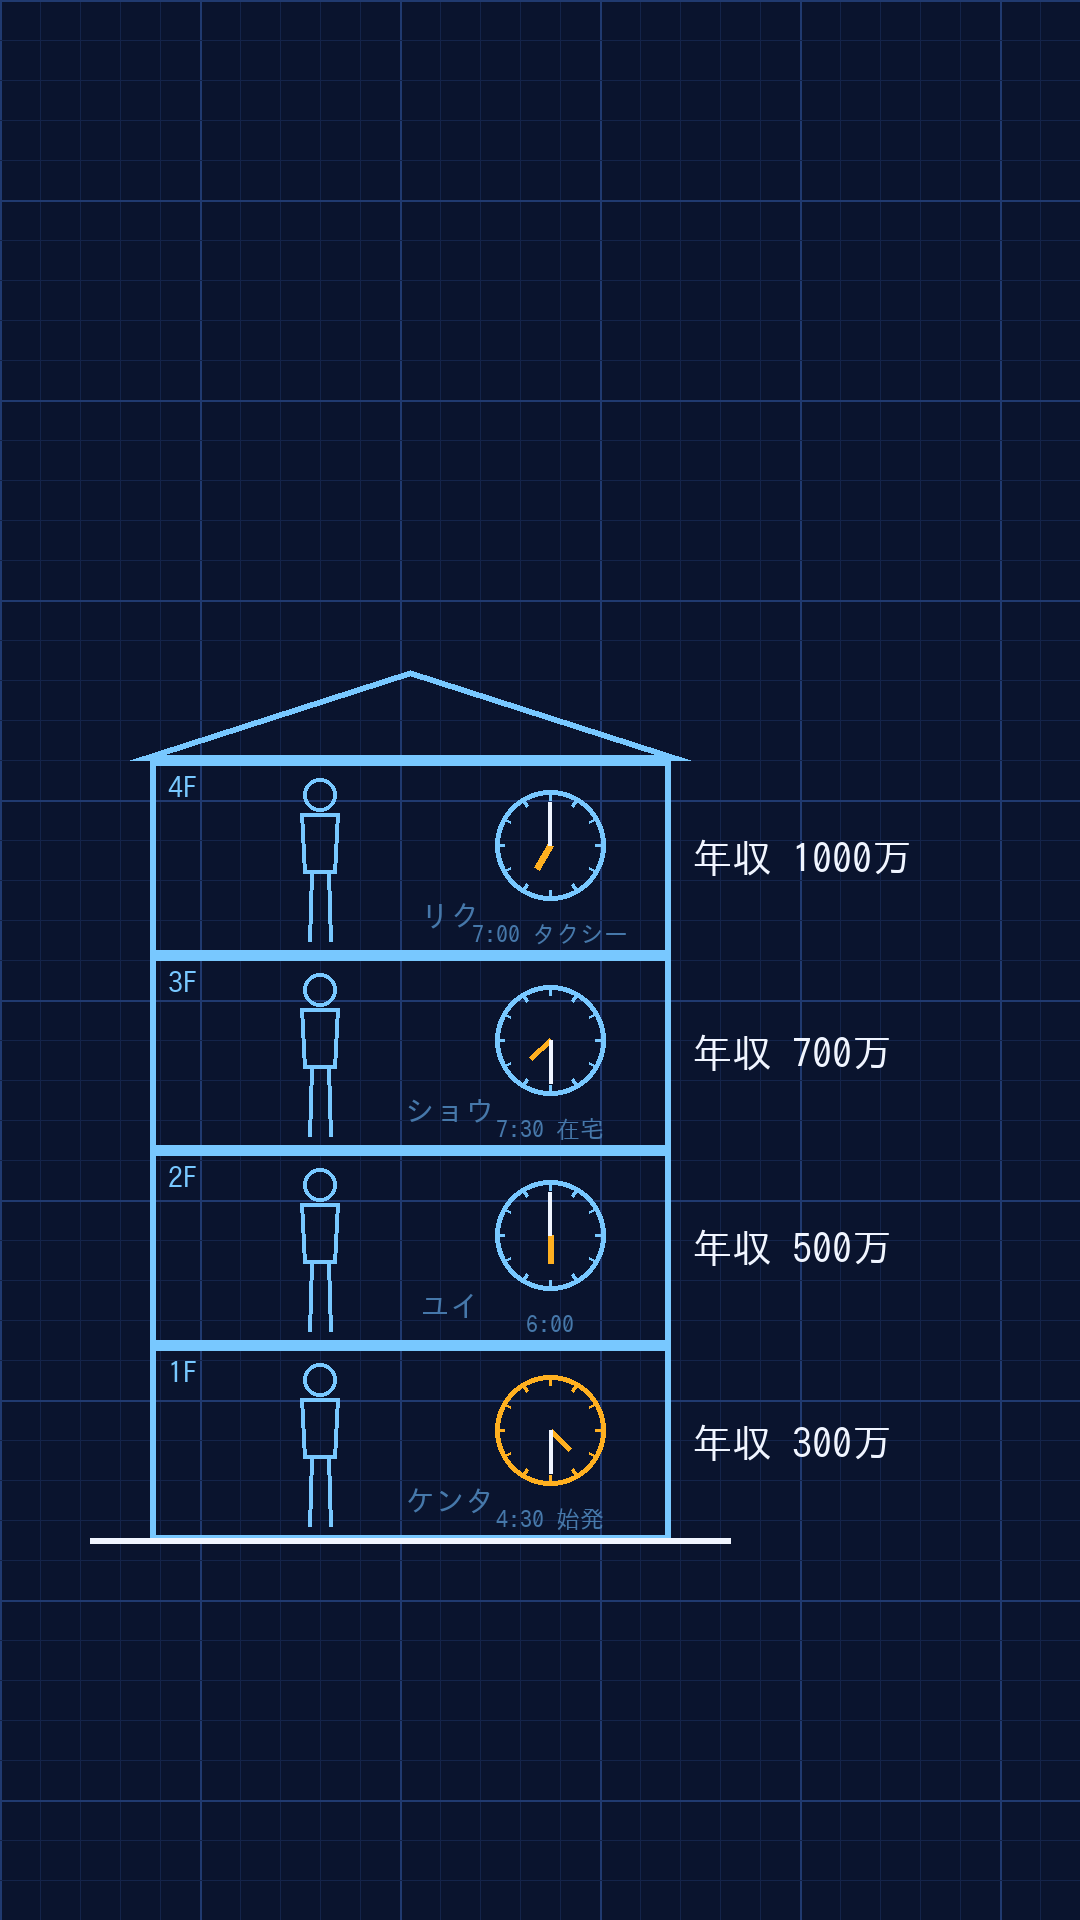
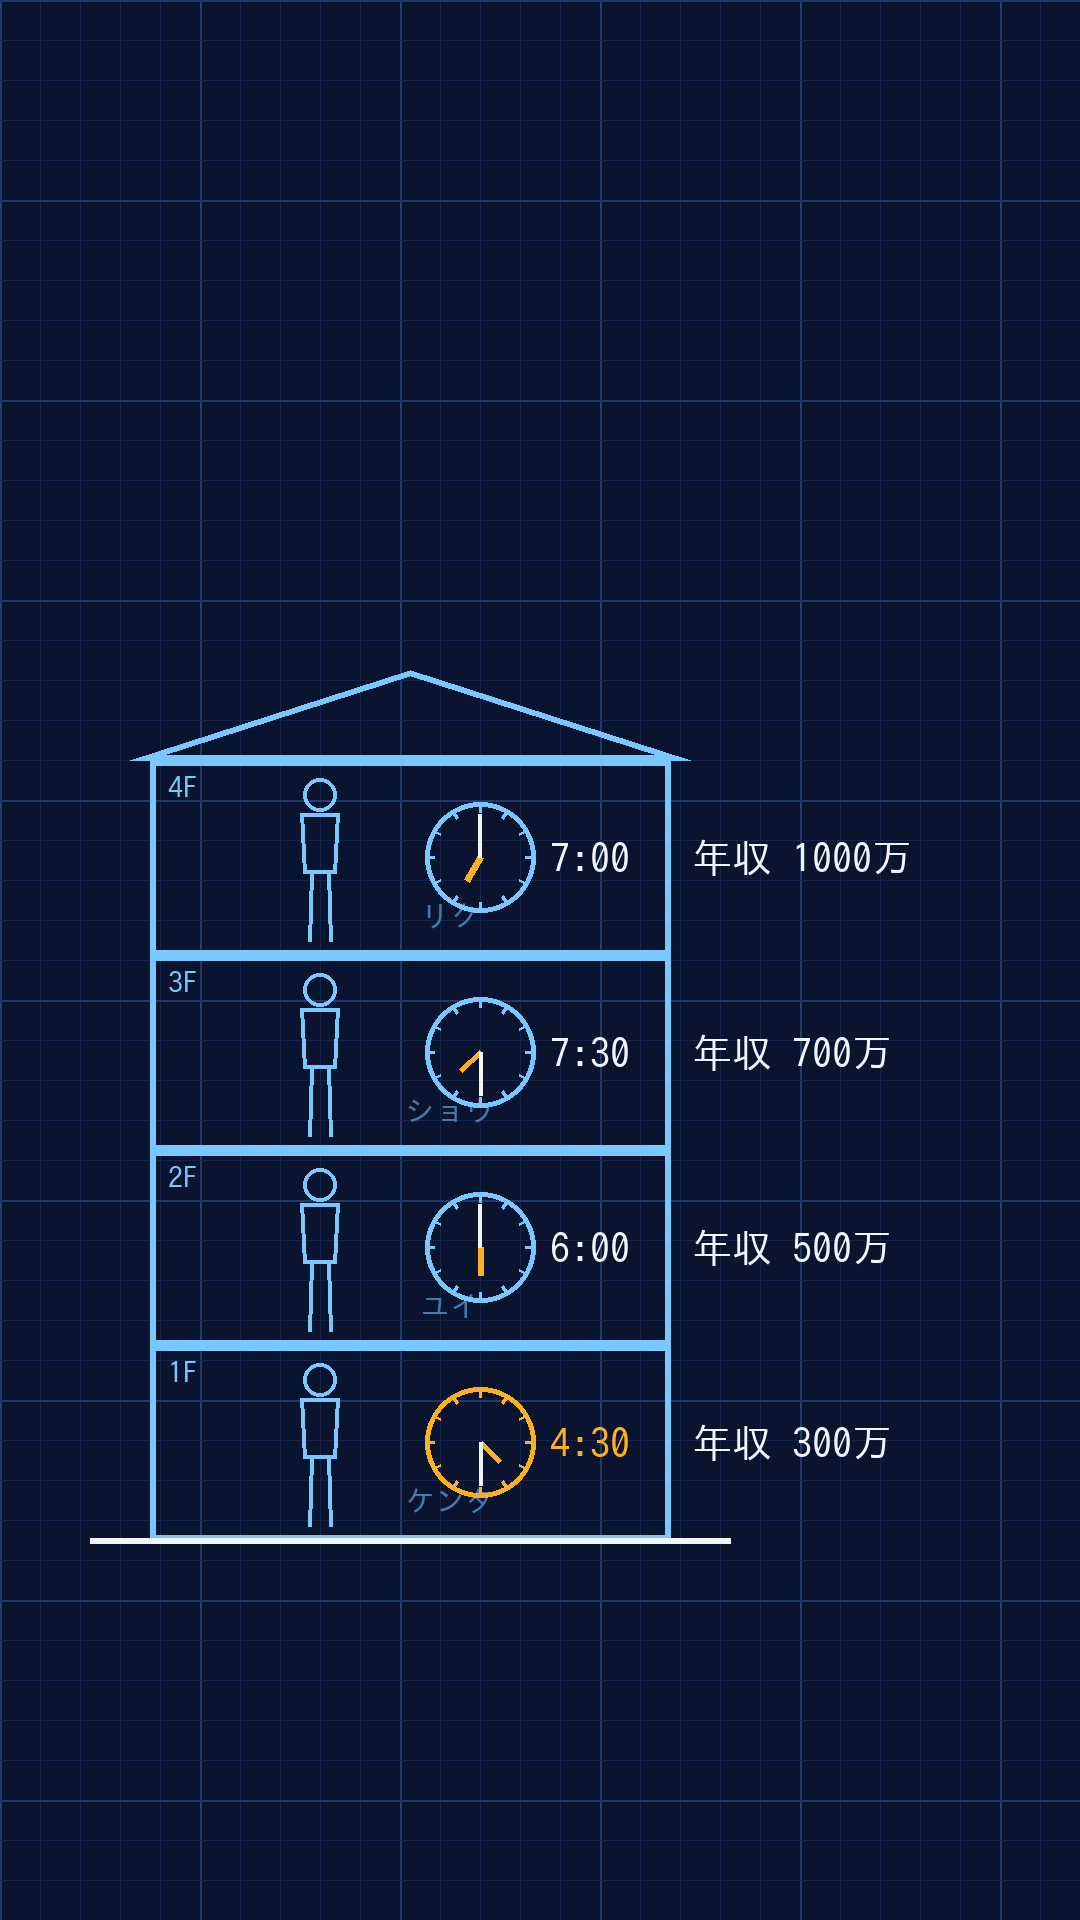
視聴者コメント「迷路の設計がよくわからん」を受けて：絵は説明なしで分かるルールをスキルに追加、未投稿の6〜9の図を修正
- SKILL.md 5章「絵は説明なしで分かること」、8章にコメントの扱い、references/視聴者の反応.md を新設
- 6：時計の時刻を40pxで時計の横に／8：棒グラフに軸名と結論を大きく／9：仲のいい友達と知り合いを左右で比べ、仕事の話が知り合いから届く図に
- 研究カードの見出しを40pxに

Claude-Session: https://claude.ai/code/session_013GWWgBpufckwWKyPRohvje

Changed region(s): [[0.3972, 0.4062, 0.5806, 0.8125]]

diff --git a/channel_produce/shorts/make_shorts_6to10.py b/channel_produce/shorts/make_shorts_6to10.py
@@ -70,8 +70,9 @@ def clocks_building(times):
         floors = building_scene(d, LABELS, NAMES, label_size=40)
         for i, (a, top, b, bot) in enumerate(floors):
             h, m, lab = times[i]
-            clock(d, a + 400, (top + bot) / 2 - 12, h, m, r=55, color=AMBER if i == 0 else LINE)
-            text(d, (a + 400, bot - 22), lab, 24, fill=LINE_DIM)
+            # 時刻は時計の右に40pxで（小さな注記に意味を持たせない）
+            clock(d, a + 330, (top + bot) / 2, h, m, r=55, color=AMBER if i == 0 else LINE)
+            text(d, (a + 400, (top + bot) / 2), lab.split()[0], 40, fill=AMBER if i == 0 else WHITE, anchor="lm")
         return im
     return make
 
@@ -91,7 +92,7 @@ def big_card(lines, amber=(), head=None):
 def research_card(title, draw):
     def make():
         im, d = canvas()
-        text(d, (540, 690), title, 34, fill=LINE_DIM)
+        text(d, (540, 690), title, 40, fill=LINE_DIM)
         draw(d)
         return im
     return make
@@ -495,8 +496,9 @@ def make_8():
 
     def s05(d):
         from blueprint import bar_chart
-        bar_chart(d, 260, 860, [70, 100], ["物を買う", "時間を買う"], h=420, bw=180, gap=180, colors=[LINE_DIM, AMBER], size=36)
-        text(d, (540, 1450), "生活の満足（高さはイメージ）", 32, fill=LINE_DIM)
+        text(d, (540, 800), "生活の満足", 52, fill=WHITE)
+        bar_chart(d, 230, 900, [70, 100], ["物を買う", "時間を買う"], h=440, bw=220, gap=180, colors=[LINE_DIM, AMBER], size=46)
+        text(d, (540, 1480), "時間を買う人ほど、満足が高い", 44, fill=AMBER)
 
     def s06():
         im, d = canvas()
@@ -526,13 +528,30 @@ def make_9():
             bubble(d, (400, 820 + k * 170, 880, 950 + k * 170), lab, 36, color=AMBER if k == 1 else LINE)
 
     def s05(d):
-        ties(d, 540, 1100, 5, 14)
-        text(d, (540, 1450), "点線＝ちょっとした知り合い", 36, fill=AMBER)
+        # 左：仲のいい友達（実線・少ない）、右：ちょっとした知り合い（点線・多い）。仕事の話は右から届く
+        import math
+        text(d, (540, 780), "仕事の話は、どこから来た？", 48, fill=WHITE)
+        for cx, n, dash, lab, col in [(280, 3, False, "仲のいい友達", LINE), (800, 9, True, "ちょっとした知り合い", AMBER)]:
+            person(d, cx, 1180, h=150, color=WHITE, width=4)
+            for k in range(n):
+                a = math.pi * (0.15 + 0.7 * k / max(1, n - 1)) + math.pi
+                x, y = cx + 190 * math.cos(a), 1060 + 190 * math.sin(a)
+                if dash:
+                    dashed(d, (cx, 1060), (x, y), color=col, width=4)
+                else:
+                    d.line([(cx, 1060), (x, y)], fill=col, width=6)
+                d.ellipse([x - 16, y - 16, x + 16, y + 16], fill=col)
+            text(d, (cx, 1260), lab, 42, fill=col)
+        # 知り合いの1人から「仕事の話」の封筒
+        d.rectangle([700, 1330, 900, 1450], outline=AMBER, width=5)
+        d.line([(700, 1330), (800, 1400), (900, 1330)], fill=AMBER, width=5)
+        text(d, (800, 1500), "仕事の話", 44, fill=AMBER)
 
     def s06():
         im, d = canvas()
         ties(d, 540, 940, 4, 22, label="リク：何百人", scale=0.8)
         ties(d, 540, 1380, 3, 3, far_on=False, label="ケンタ：数人", scale=0.6)
+        text(d, (540, 700), "点線＝ちょっとした知り合い", 44, fill=AMBER)
         return im
 
     write_folder("09_ちょっとした知り合い", S9, "ピロン", [

diff --git a/.claude/skills/jinsei-danmen/SKILL.md b/.claude/skills/jinsei-danmen/SKILL.md
@@ -101,6 +101,14 @@ description: ヒロキの新しいYouTubeチャンネル「人生の断面図」
 - 40〜50秒：救い→「あなたは何階でした？」→最後の絵を冒頭の絵と同じにしてループ
 - 長尺ができたら、ショートは**長尺の一番強い場面の切り出し**にする（新作は作らない）。長尺1本→ショート5本（各場面1本＋結末の手紙1本）。最後は「本編で、4人の20年をたどる。あなたは、何階でした？」で本編へ誘導し、投稿時に関連動画へ長尺を指定する。例：`channel_produce/shorts/make_shorts_6to10.py`
 
+**絵は説明なしで分かること**（2026-11-25 視聴者コメント「迷路の設計がよくわからん」👍3 より。ショート3 IQ）
+- たとえ（迷路・階段など）を使うなら、ナレーションかテロップで**1回はっきり言う**（例：「上の階ほど、迷路を上から広く見下ろせる」）
+- **同じもの**の見え方の差を見せるなら、最初に全体を1回見せ、各階は同じ絵の一部を隠す・明かすで描く（別々の絵に見えないように）
+- 迷路ならスタート・ゴール・本人の位置、グラフなら軸と単位など、**それが何かが分かる目印**を必ず入れる
+- 1本のたとえは1つ。ビルの階＋迷路のように2つを重ねない
+- 画面の文字は縦動画で最小40px（スマホで読めない小さな注記に意味を持たせない）
+- 確かめ方：音を消して各場面を1秒ずつ見て、何の絵か言えるか
+
 例：`references/ショート台本の例_年収.md`（自動配置ツールの script.md 形式。「テロップ：」「効果音：K01 +0.35」の指示付き）
 
 ## 6. タイトル・説明欄・サムネ
@@ -133,6 +141,7 @@ description: ヒロキの新しいYouTubeチャンネル「人生の断面図」
 - 24時間以上たってから見る：冒頭3秒の維持率、平均再生率（ループで100%超え）、コメント数、インプレッションのクリック率
 - 観測値（事実）と仮説を分けて書く。一度に変えるのは1つだけ
 - 当たりは全体の1〜3割が普通（どのチャンネルも同じ）。外れても型をすぐには捨てない
+- **コメントは貴重な実測**（ヒロキ 2026-11-25）。「分からない」系のコメントは、いいねの数も見て、次の台本・絵のルールに必ず反映する。記録は `references/視聴者の反応.md`
 
 ## 9. 制作の道具（リポジトリ `my-first-project` があるとき）
 
@@ -192,3 +201,4 @@ description: ヒロキの新しいYouTubeチャンネル「人生の断面図」
 | `references/ショート台本の例_年収.md` | ショートの script.md |
 | `references/タイトル_説明欄_サムネ.md` | ショート5本分のタイトル・説明欄・Midjourney と GPT Image の指示文 |
 | `references/使用済みの研究.md` | 元チャンネル・競合・自分のチャンネルで使った研究（重複を避ける） |
+| `references/視聴者の反応.md` | 投稿後のコメント・数字と、そこから直したルール |

diff --git a/.claude/skills/jinsei-danmen/references/視聴者の反応.md b/.claude/skills/jinsei-danmen/references/視聴者の反応.md
@@ -1,0 +1,23 @@
+# 視聴者の反応（コメント・数字）と、そこから直したこと
+
+新しいコメントや数字が来たら上に足す。観測（事実）と、そこから決めたルールを分けて書く。
+
+## 2026-11-25 ショート3「同じ迷路、4つの景色（IQ別）」
+
+**観測**
+- コメント「迷路の設計がよくわからん」（いいね3、投稿から約22時間）。チャンネルから「コメントありがとうございます。分かりやすくしますね！」と返信済み
+- 投稿時点の登録者2人。いいねが付いたので、同じように感じた人が複数いる
+
+**原因（動画を見直して分かったこと）**
+1. 各階の枠＝「その人に見えている迷路の範囲」だと、ナレーションでもテロップでも言っていない。説明はスマホでは読めない小さな注記「見えているのは、ここまで」だけ
+2. 1階は空の枠、2階は線2本…と、同じ迷路の一部ではなく別々の迷路に見える
+3. スタート・ゴール・本人の位置がなく、迷路だと分かる目印がない
+4. ビルの階と迷路の2つのたとえを重ねていて、関係が分かりにくい
+
+**決めたこと**（SKILL.md 5章「絵は説明なしで分かること」）
+- たとえは1本に1つ、1回は言葉ではっきり言う
+- 同じものの見え方の差は「全体を1回見せる→各階は同じ絵を隠す・明かす」
+- 何の絵か分かる目印（スタート・ゴール・自分の位置、軸と単位）を入れる
+- 文字は最小40px。音を消して1場面1秒で何の絵か言えるかで確かめる
+
+**同じ心配がある回**：ショート9（ちょっとした知り合い）の点線の図、ショート8の棒グラフ（「高さはイメージ」の小さな注記）
